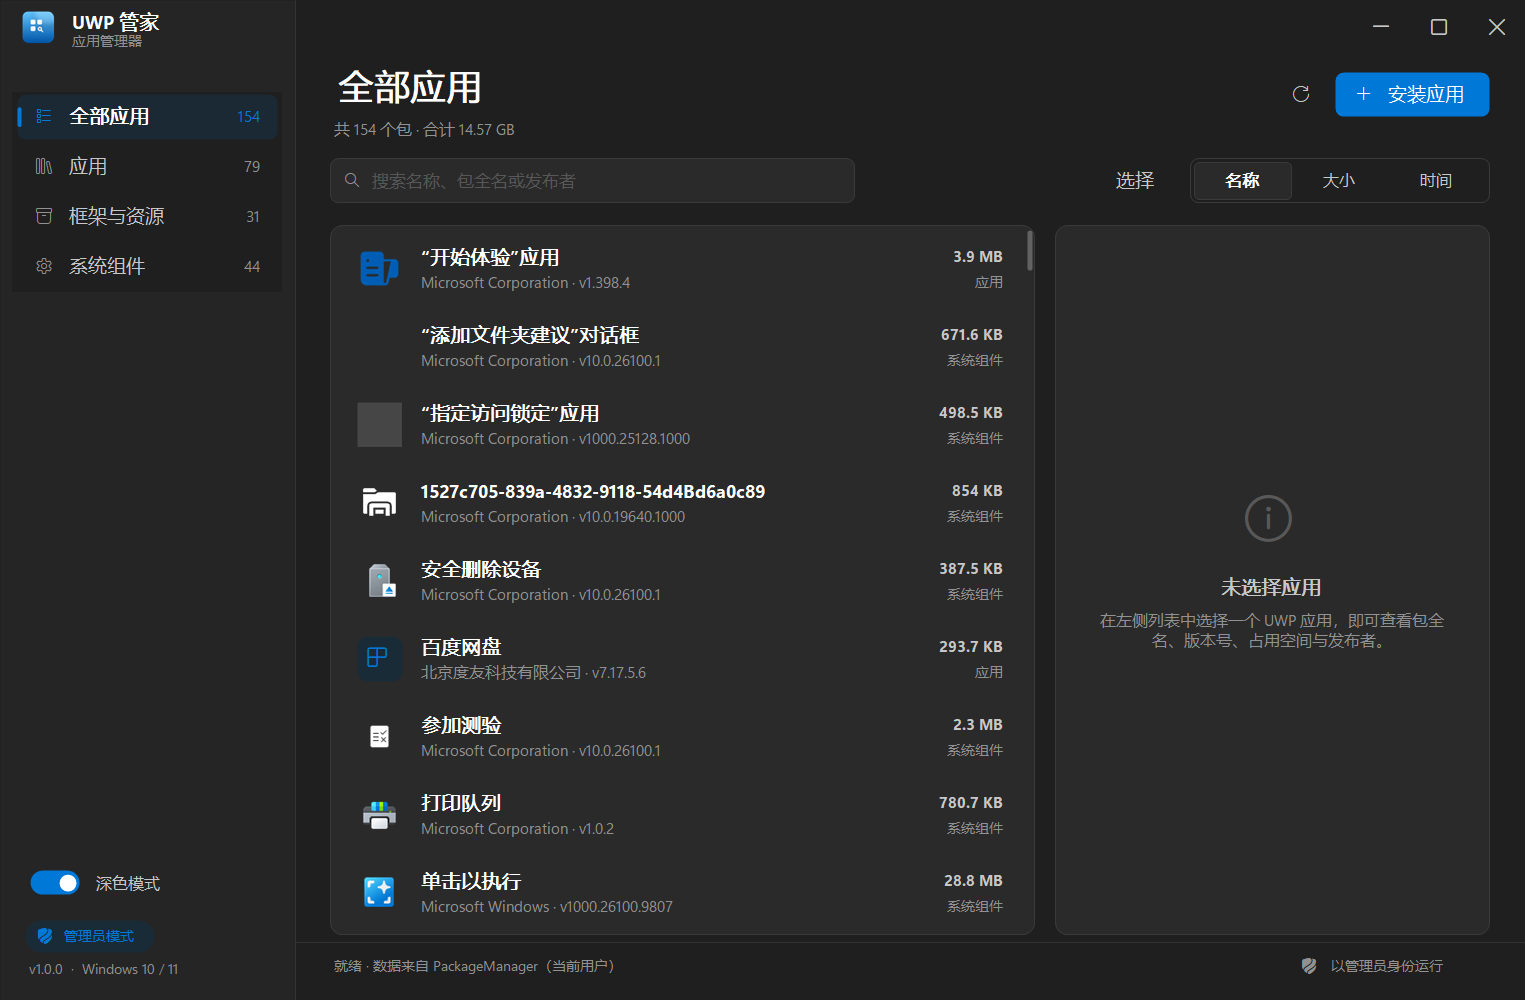
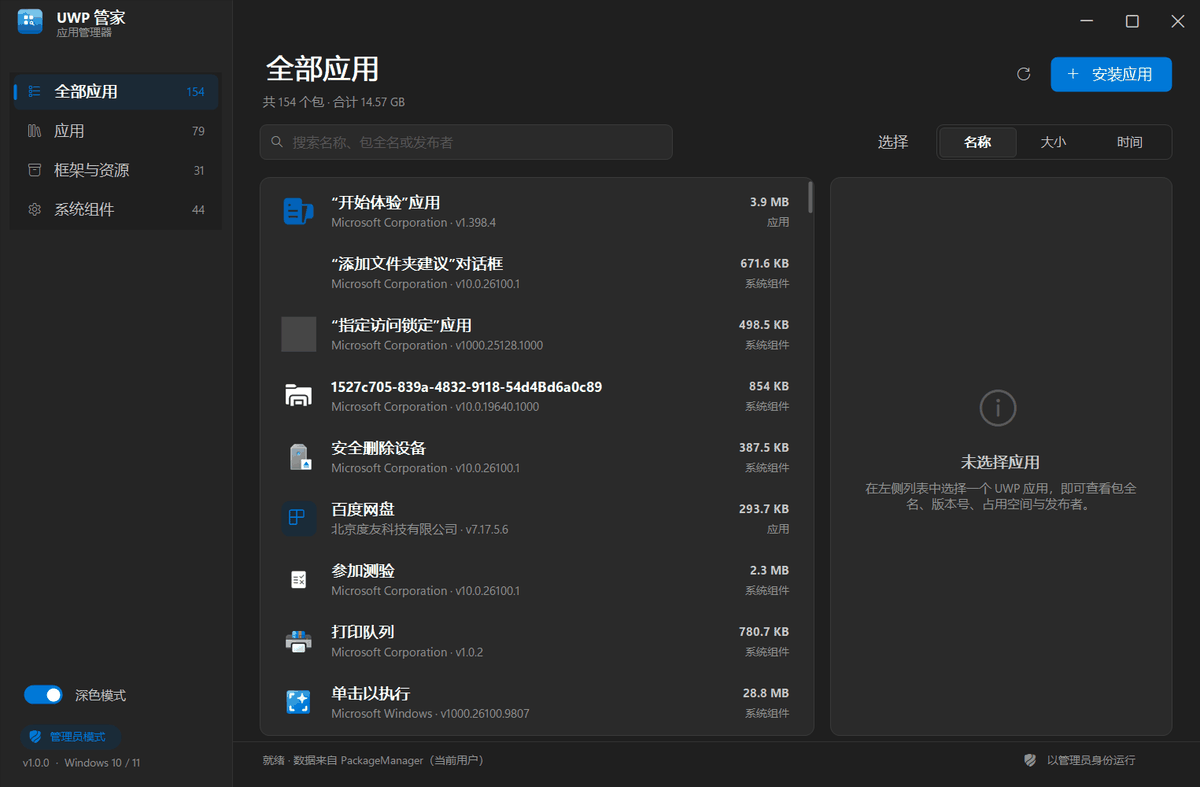
压缩截图体积、补充发布说明与图片优化脚本

diff --git a/tools/optimize_images.py b/tools/optimize_images.py
@@ -1,0 +1,47 @@
+"""压缩仓库里的截图与图标，减小仓库体积。"""
+import os
+from PIL import Image
+
+ROOT = os.path.dirname(os.path.dirname(os.path.abspath(__file__)))
+DOCS = os.path.join(ROOT, "docs")
+ASSETS = os.path.join(ROOT, "src", "UwpManager", "Assets")
+
+
+def optimize_screenshot(path, target_width=1200):
+    im = Image.open(path).convert("RGB")
+    if im.width > target_width:
+        h = round(im.height * target_width / im.width)
+        im = im.resize((target_width, h), Image.LANCZOS)
+    # 量化到 256 色并抖动，UI 截图肉眼几乎无差别
+    q = im.quantize(colors=256, method=Image.MEDIANCUT, dither=Image.FLOYDSTEINBERG)
+    before = os.path.getsize(path)
+    q.save(path, format="PNG", optimize=True)
+    after = os.path.getsize(path)
+    print(f"{os.path.basename(path):26} {before/1024:7.1f} KB -> {after/1024:7.1f} KB")
+
+
+def main():
+    total_before = total_after = 0
+    for name in sorted(os.listdir(DOCS)):
+        if not name.lower().endswith(".png"):
+            continue
+        p = os.path.join(DOCS, name)
+        total_before += os.path.getsize(p)
+        optimize_screenshot(p)
+        total_after += os.path.getsize(p)
+
+    # 图标源文件：仅压 1024 原图
+    big = os.path.join(ASSETS, "app-1024.png")
+    if os.path.exists(big):
+        im = Image.open(big).convert("RGBA")
+        before = os.path.getsize(big)
+        im.save(big, format="PNG", optimize=True)
+        print(f"{'app-1024.png':26} {before/1024:7.1f} KB -> {os.path.getsize(big)/1024:7.1f} KB")
+        total_before += before
+        total_after += os.path.getsize(big)
+
+    print(f"\ndocs total: {total_before/1024:.0f} KB -> {total_after/1024:.0f} KB")
+
+
+if __name__ == "__main__":
+    main()

diff --git a/README.md b/README.md
@@ -2,6 +2,12 @@
 
 一个 Fluent Design 风格的本机 UWP / MSIX 应用检测与管理工具。
 
+## 下载
+
+- 直接可运行的单文件：`UwpManager.exe`（24.6 MB，内含 WinRT 投影，需 .NET 10 桌面运行时）
+- 压缩发布包：`UwpManager-1.0.0-win-x64.zip`（约 6.2 MB）
+
+> 仓库只存源码，编译产物不放 git；二进制通过 GitHub Releases 分发。
 ## 单文件便携版
 
 **`dist\UwpManager.exe` 就是全部** —— 一个 24.6 MB 的 exe，绿色免安装，双击即用，不写注册表、不建快捷方式、不留文件（除运行日志外）。
